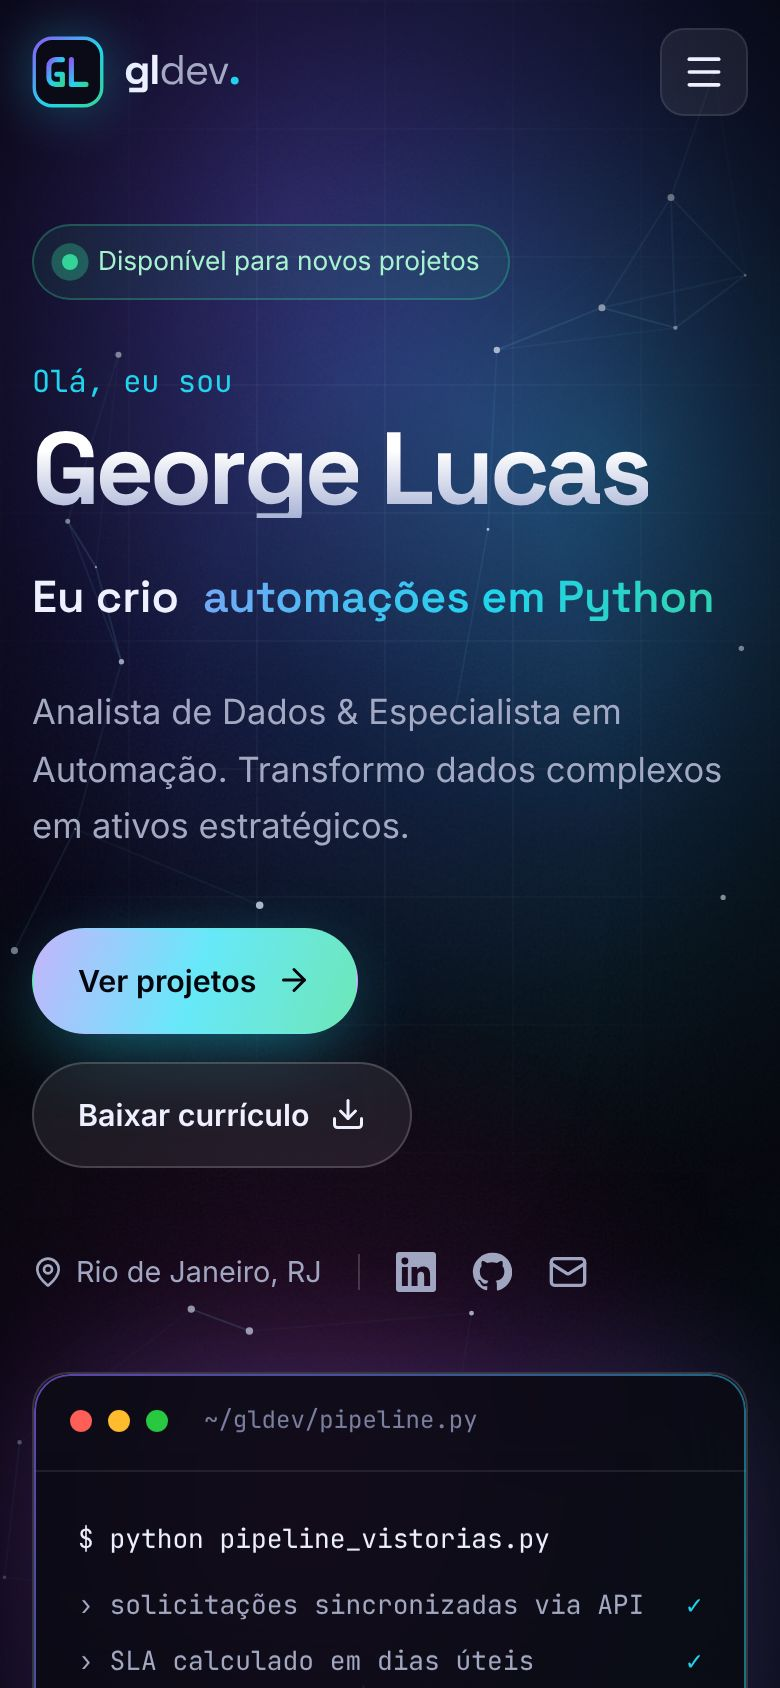
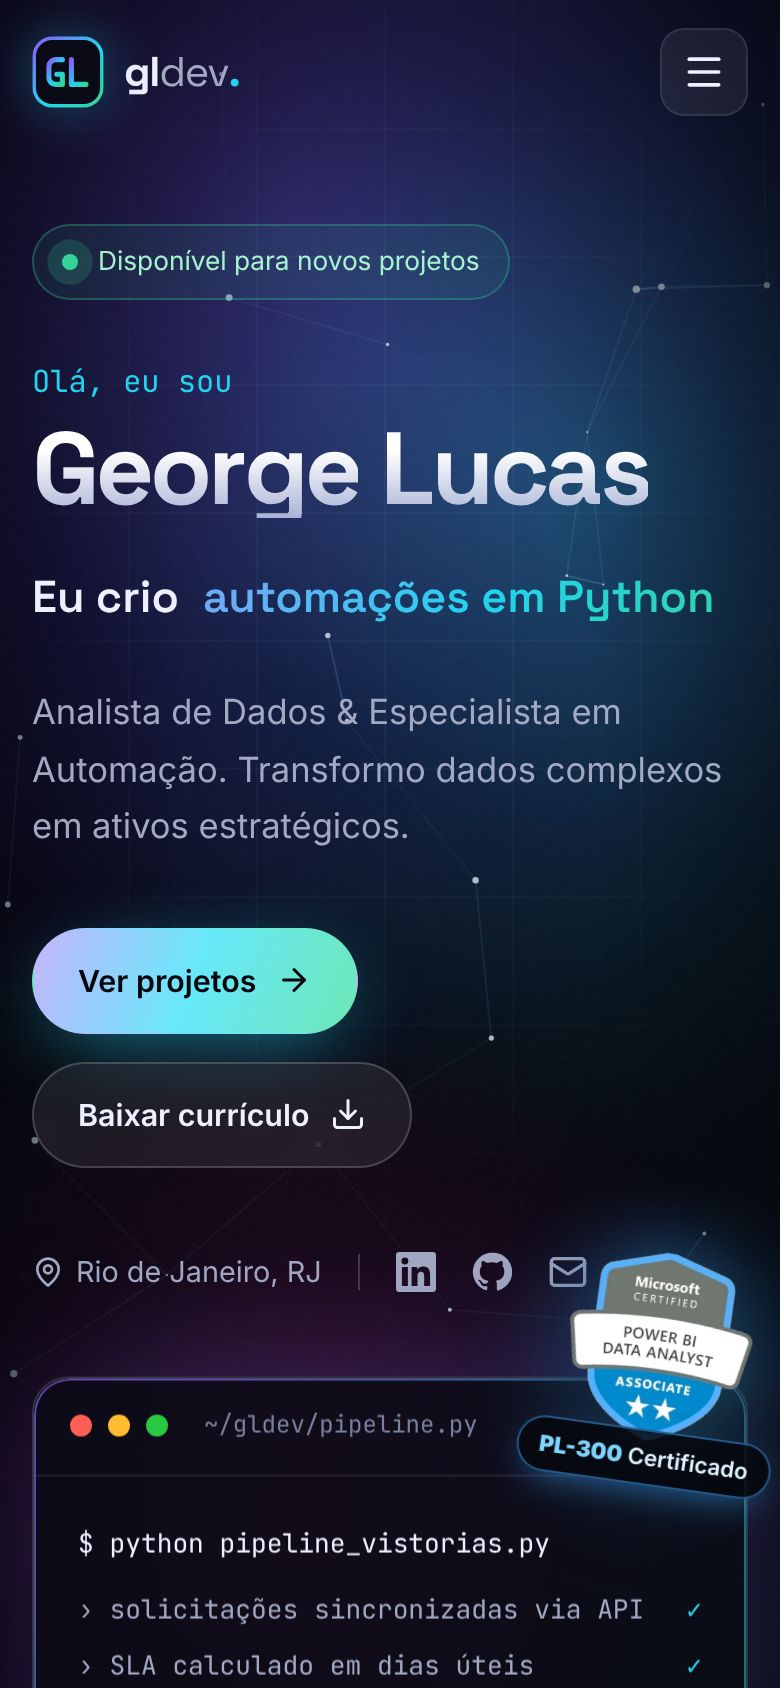
Atualiza as capturas de tela do README
Novas capturas do site atual (selo PL-300 no topo, menu e foto no
Contato) e duas imagens novas na galeria: a certificação em destaque
e a seção de contato.

diff --git a/README.md b/README.md
@@ -35,6 +35,7 @@ Os projetos vêm do repositório [glucas290/GLdev](https://github.com/glucas290/
   - **Simulação dos robôs**: etapas executando com log em tempo real
   - **Código real** com destaque de sintaxe (Python, SQL, DAX e Power Query M)
 - **Estudo de caso:** problema → solução → resultado, com diagrama "Como funciona" em que os dados percorrem o fluxo.
+- **Certificação Microsoft PL-300 em destaque:** selo oficial flutuando no topo do site e cartão especial com as competências avaliadas.
 - **Prévia bonita ao compartilhar:** o site e cada projeto têm imagem e textos próprios no LinkedIn, no WhatsApp e no Google.
 - **Para qualquer pessoa:** todos os textos ficam em uma pasta só, com guia em português para quem não programa.
 
@@ -54,6 +55,14 @@ Os projetos vêm do repositório [glucas290/GLdev](https://github.com/glucas290/
   <tr>
     <td align="center"><sub>Estudo de caso com diagrama animado</sub></td>
     <td align="center"><sub>Versão para celular</sub></td>
+  </tr>
+  <tr>
+    <td width="50%"><img src="docs/img/certificacao.jpg" alt="Cartão de destaque da certificação Microsoft PL-300" /></td>
+    <td width="50%"><img src="docs/img/contato.jpg" alt="Seção de contato com a foto do George" /></td>
+  </tr>
+  <tr>
+    <td align="center"><sub>Certificação Microsoft PL-300 em destaque</sub></td>
+    <td align="center"><sub>Contato com a foto do George</sub></td>
   </tr>
 </table>
 
